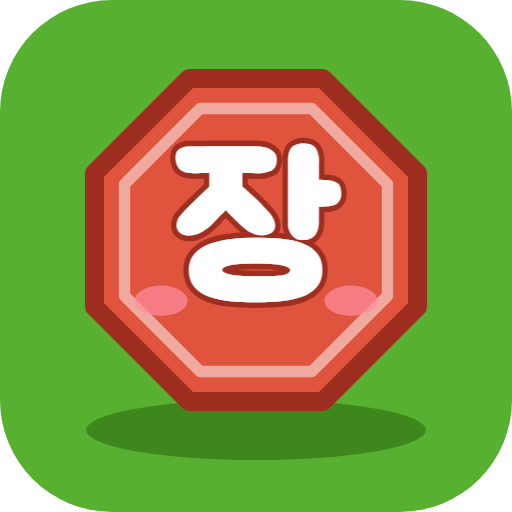
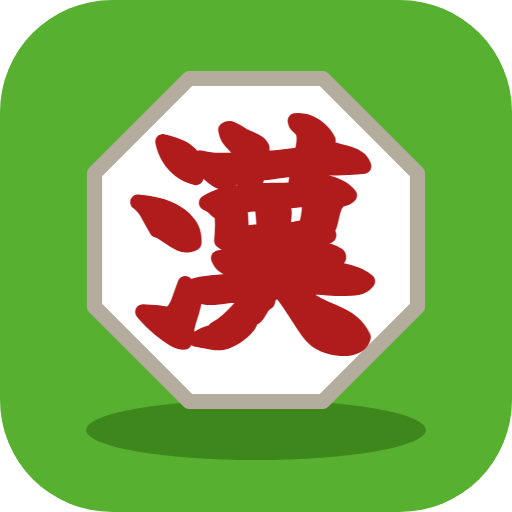
장기: 말을 전통 장기처럼 흰 팔각 말에 빨강·파랑 한자로, 글자 크게
- 붓글씨 획이 작은 말에서 잘 안 보여 글자·획·말 크기를 키우고 색을 진하게
- 아이콘도 흰 말에 漢 으로 바꾸고 캐시 버전을 올림

diff --git a/장기/index.html b/장기/index.html
@@ -28,7 +28,7 @@
   --danger:#E0533D; --danger-deep:#AE3826; --sun:#F6C945;
   --wood:#F4DDA8; --wood-line:#9B6B3A; --board-edge:#C79A5B;
   --mark:rgba(70,45,20,.34); --last:rgba(246,201,69,.6); --sel:rgba(246,201,69,.95);
-  --cho:#4DA62B; --cho-edge:#2C6A16; --han:#E0533D; --han-edge:#9E2F20;
+  --piece:#FFFFFF; --piece-edge:#B4AC9C; --cho-ink:#142E8C; --han-ink:#B01C1C;
   --shade:rgba(34,48,31,.14);
   --f-display:"Fredoka","Jua","Nunito",ui-rounded,system-ui,sans-serif;
   --f-body:"Nunito",ui-rounded,system-ui,-apple-system,sans-serif;
@@ -103,16 +103,15 @@ main{flex:1;min-height:0;overflow-y:auto;overflow-x:hidden}
 .pt.cap::after{content:"";position:absolute;width:96%;aspect-ratio:1;border-radius:50%;border:4px solid var(--danger);pointer-events:none;z-index:2;animation:dot .2s cubic-bezier(.3,1.6,.5,1)}
 @keyframes dot{from{transform:scale(0)}}
 /* 기물: 팔각 말. 궁이 가장 크고 사·졸이 가장 작다 */
-.pc{position:relative;z-index:1;display:block;width:84%;height:84%;pointer-events:none;will-change:transform;overflow:visible;filter:drop-shadow(0 2px 0 rgba(0,0,0,.25))}
-.pc.k{width:100%;height:100%}.pc.s{width:70%;height:70%}
-.pc.cho{--pf:var(--cho);--pe:var(--cho-edge)}
-.pc.han{--pf:var(--han);--pe:var(--han-edge)}
-.pc .ob{fill:var(--pf);stroke:var(--pe);stroke-width:5;stroke-linejoin:round}
-.pc .oi{fill:none;stroke:#FFFFFF;stroke-opacity:.5;stroke-width:3;stroke-linejoin:round}
-.pc .bl{fill:#FF8FA3;opacity:.7}
+.pc{position:relative;z-index:1;display:block;width:90%;height:90%;pointer-events:none;will-change:transform;overflow:visible;filter:drop-shadow(0 2px 0 rgba(0,0,0,.25))}
+.pc.k{width:104%;height:104%}.pc.s{width:78%;height:78%}
+/* 말: 전통 장기처럼 흰 팔각 말에 초는 파란 글씨, 한은 빨간 글씨 */
+.pc.cho{--pk:var(--cho-ink)}
+.pc.han{--pk:var(--han-ink)}
+.pc .ob{fill:var(--piece);stroke:var(--piece-edge);stroke-width:4;stroke-linejoin:round}
 /* 전통 장기 말처럼 한은 붓글씨 해서, 초는 굵은 초서. 붓글씨 글꼴은 획이 가늘어 같은 색 테두리로 굵게 한다 */
-.pc text{fill:#FFFFFF;font-family:var(--f-piece);font-size:52px;text-anchor:middle;dominant-baseline:central;stroke:#FFFFFF;stroke-width:2px;stroke-linejoin:round}
-.pc.cho text{font-family:var(--f-piece-cho);font-size:60px;stroke-width:2.5px}
+.pc text{fill:var(--pk);font-family:var(--f-piece);font-size:66px;text-anchor:middle;dominant-baseline:central;stroke:var(--pk);stroke-width:4px;stroke-linejoin:round}
+.pc.cho text{font-family:var(--f-piece-cho);font-size:74px;stroke-width:4.5px}
 .pc.lift{animation:bob 1.1s ease-in-out infinite}
 @keyframes bob{0%,100%{transform:translateY(-6%) scale(1.1)}50%{transform:translateY(-12%) scale(1.1)}}
 .pc.land{animation:land .3s ease-out}
@@ -295,16 +294,14 @@ var CHO=E.CHO,HAN=E.HAN,KING=E.K;
 var FORM_KEYS=Object.keys(E.FORMS);
 // 팔각 말 (viewBox 100×100)
 var OCT_OUT='M92.5 32.4L92.5 67.6L67.6 92.5L32.4 92.5L7.5 67.6L7.5 32.4L32.4 7.5L67.6 7.5Z';
-var OCT_IN='M84.6 35.3L84.6 64.7L64.7 84.6L35.3 84.6L15.4 64.7L15.4 35.3L35.3 15.4L64.7 15.4Z';
 // 초서체 글꼴에 번체 車·馬 가 없어 간체 车·马 를 쓴다(간체가 원래 초서(흘림)에서 온 모양이라 실제 초 말과 같다)
 var LABEL={8:['','卒','包','马','象','士','车','楚'],16:['','兵','包','馬','象','士','車','漢']};
 var PNAME=['','졸','포','마','상','사','차','궁'];
 function pieceSvg(t,color,extra){
   var size=t===KING?' k':(t===E.P||t===E.A)?' s':'';
   return '<svg class="pc '+(color===CHO?'cho':'han')+size+(extra||'')+'" viewBox="0 0 100 100" aria-hidden="true">'+
-    '<path class="ob" d="'+OCT_OUT+'"/><path class="oi" d="'+OCT_IN+'"/>'+
-    '<ellipse class="bl" cx="25" cy="66" rx="7" ry="4"/><ellipse class="bl" cx="75" cy="66" rx="7" ry="4"/>'+
-    '<text x="50" y="49">'+LABEL[color][t]+'</text></svg>';
+    '<path class="ob" d="'+OCT_OUT+'"/>'+
+    '<text x="50" y="50">'+LABEL[color][t]+'</text></svg>';
 }
 var LEVELS=[
   {t:'새싹',d:'규칙을 막 배운 상대. 아무 수나 자주 둡니다',o:{depth:1,q:false,noise:600,rnd:.45}},

diff --git a/장기/sw.js b/장기/sw.js
@@ -1,6 +1,6 @@
 // 앱 껍데기 캐시: 화면은 네트워크 우선(새 버전 바로 반영), 안 되면 캐시로 오프라인 봇 대국
 // 체스와 같은 주소(origin)라 캐시 저장소를 함께 쓴다. 지울 때는 자기 이름(solsol-janggi-)으로 시작하는 것만 지운다
-const CACHE = 'solsol-janggi-v1';
+const CACHE = 'solsol-janggi-v2';
 const SHELL = ['./', './index.html', './engine.js', './manifest.webmanifest', './icon.svg', './icon-512.png'];
 
 self.addEventListener('install', (e) => {

diff --git a/장기/CLAUDE.md b/장기/CLAUDE.md
@@ -19,7 +19,7 @@
 - **위치 문자열**(`E.pos`): 90글자(초 대문자, 한 소문자, 빈칸 `.`) + 차례(`c`/`h`) + 무잡기 수 + 전체 수. Worker 에 이 문자열을 넘긴다.
 - **상차림**: `HEEH`(마상상마) 같은 4글자, 자기 쪽에서 본 왼쪽부터. `cur.setup = {cho, han}`. 수 목록과 함께 저장·전송해야 국면을 다시 만들 수 있다.
   판마다 처음에 판 위 선택 창(`#formPick`)에서 각자 고른다. 아직 안 고른 쪽은 `null` 이고, 둘 다 정해지기 전에는 둘 수 없다(`setupReady()`). 봇 쪽은 무작위.
-- **말 글자**: 한자(`LABEL`). 전통 장기판 그림(위키백과 장기판)처럼 초는 굵은 초서, 한은 붓글씨 해서.
+- **말 모양**: 전통 장기판 그림(위키백과)처럼 흰 팔각 말(`--piece`)에 초는 파란(`--cho-ink`), 한은 빨간(`--han-ink`) 한자(`LABEL`). 초는 굵은 초서, 한은 붓글씨 해서.
   초 = Zhi Mang Xing, 한 = Yuji Syuku. 붓글씨 글꼴은 획이 가늘어 흰 테두리(stroke)로 굵게 한다. 둘 다 Google Fonts 에서 `text=` 로 쓰는 글자만 받는다. 글자를 바꾸면 그 링크의 `text=` 도 고친다.
   붓글씨 글꼴에 번체 車·馬 가 없어 초는 간체 车·马 를 쓴다(간체가 초서에서 온 모양이라 실제 초 말과 같다).
 - **봇 난이도**: `index.html` 의 `LEVELS` 10개. `depth`·`noise`(졸 = 200 기준)·`rnd`·`time`(ms).

diff --git a/장기/README.md b/장기/README.md
@@ -4,7 +4,7 @@
 
 - 봇 상대 10단계 난이도, 힌트·무르기
 - 판마다 처음에 상차림 4가지(마상상마·상마마상·마상마상·상마상마) 중 골라서 시작
-- 말은 실제 장기처럼 한자로 표시: 전통 장기판처럼 초는 굵은 초서(楚 车 包 马 象 士 卒), 한은 붓글씨 해서(漢 車 包 馬 象 士 兵)
+- 말은 전통 장기처럼 흰 팔각 말에 한자로 표시: 초는 굵은 초서(楚 车 包 马 象 士 卒), 한은 붓글씨 해서(漢 車 包 馬 象 士 兵)
 - 친구와 실시간 대전 — 방을 만들고 초대 링크를 카카오톡으로 보내면 끝
 - 친구별 전적(몇 판, 몇 승 몇 패)과 봇 레벨별 전적
 
